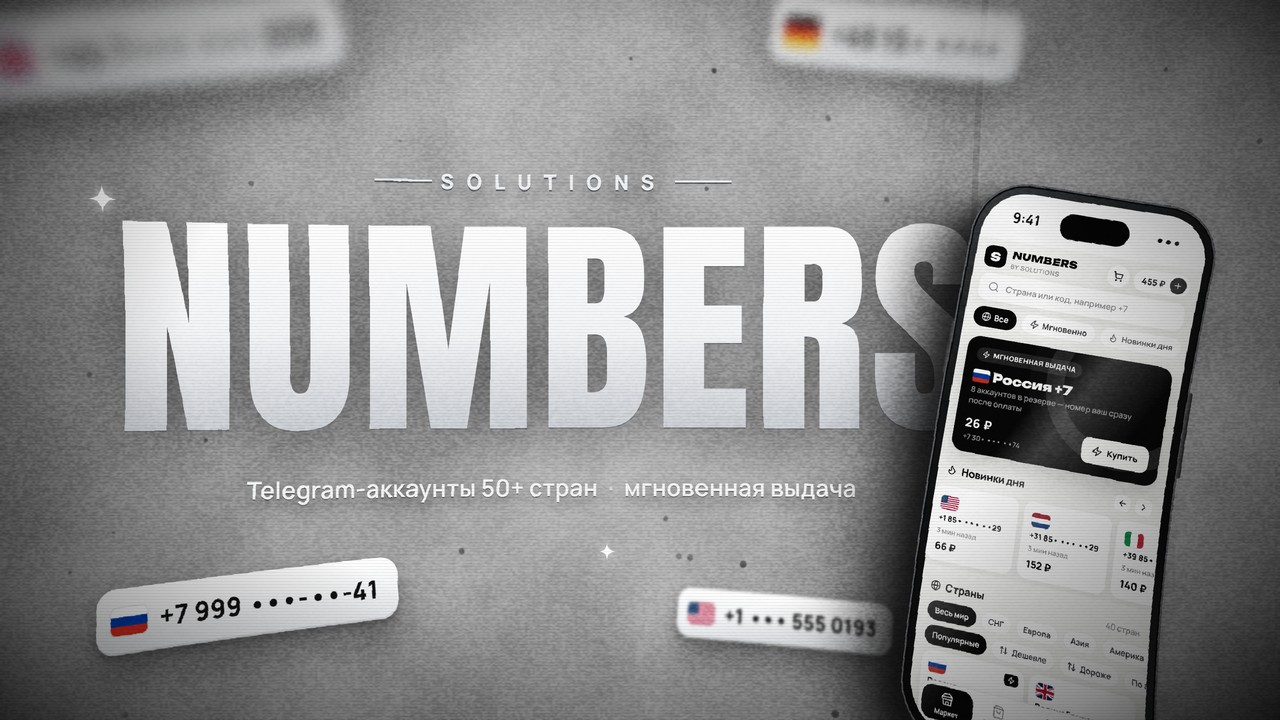
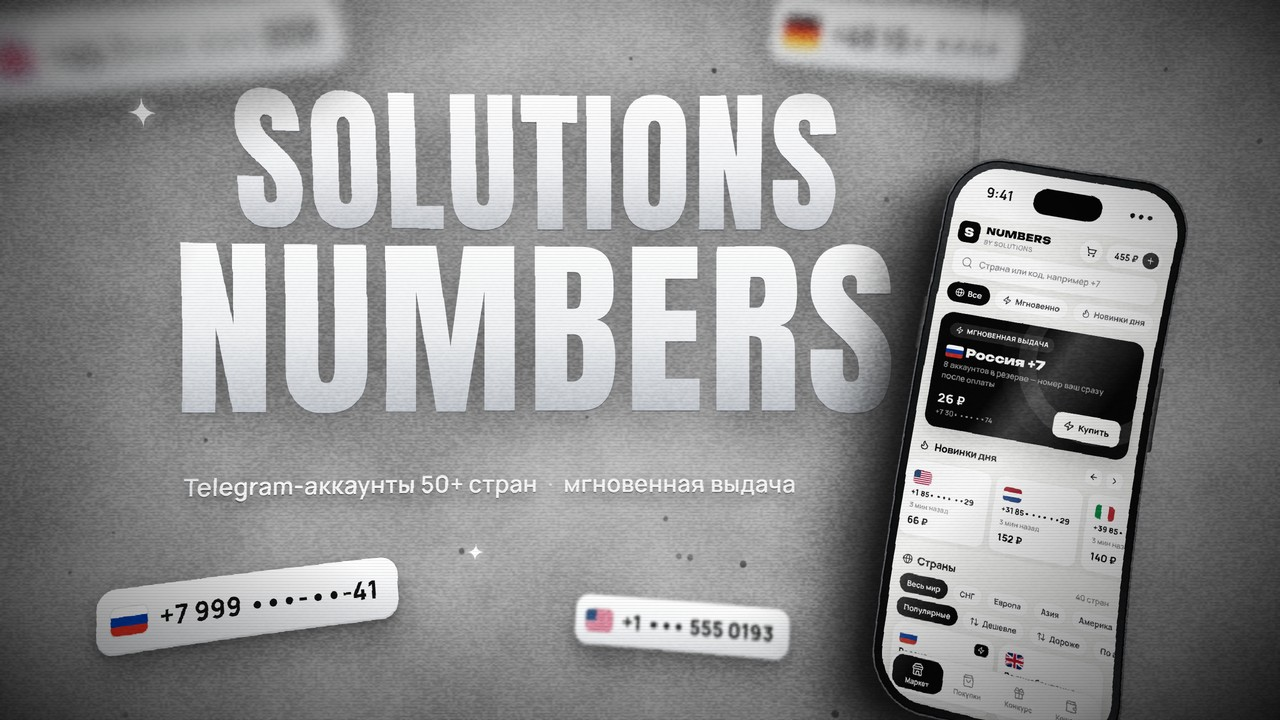
Баннер меню и картинки описания: SOLUTIONS NUMBERS в две строки
Бот привязывает сохранённый file_id баннера к самому файлу, чтобы после
замены картинки не присылать старую.

diff --git a/bot.py b/bot.py
@@ -121,10 +121,11 @@ async def _send(bot: Bot, chat_id: int, text: str, kb_fn, lang: str, photo: bool
                 send = {"photo": bot.send_photo, "animation": bot.send_animation, "video": bot.send_video}[kind]
                 await send(chat_id, media, caption=text, reply_markup=kb)
             elif photo and BANNER.exists():
-                fid = await db.get_setting("banner_file_id")
+                fkey = f"banner_file_id:{BANNER.stat().st_size}:{int(BANNER.stat().st_mtime)}"
+                fid = await db.get_setting(fkey)
                 msg = await bot.send_photo(chat_id, fid or FSInputFile(BANNER), caption=text, reply_markup=kb)
                 if not fid and msg.photo:
-                    await db.set_setting("banner_file_id", msg.photo[-1].file_id)
+                    await db.set_setting(fkey, msg.photo[-1].file_id)
             else:
                 await bot.send_message(chat_id, text, reply_markup=kb)
             return
@@ -136,7 +137,7 @@ async def _send(bot: Bot, chat_id: int, text: str, kb_fn, lang: str, photo: bool
                 text = _plain(text)
                 continue
             if attempt == 0 and "file" in low:
-                await db.set_setting("banner_file_id", "")
+                await db.set_setting(f"banner_file_id:{BANNER.stat().st_size}:{int(BANNER.stat().st_mtime)}", "")
                 continue
             raise
 
